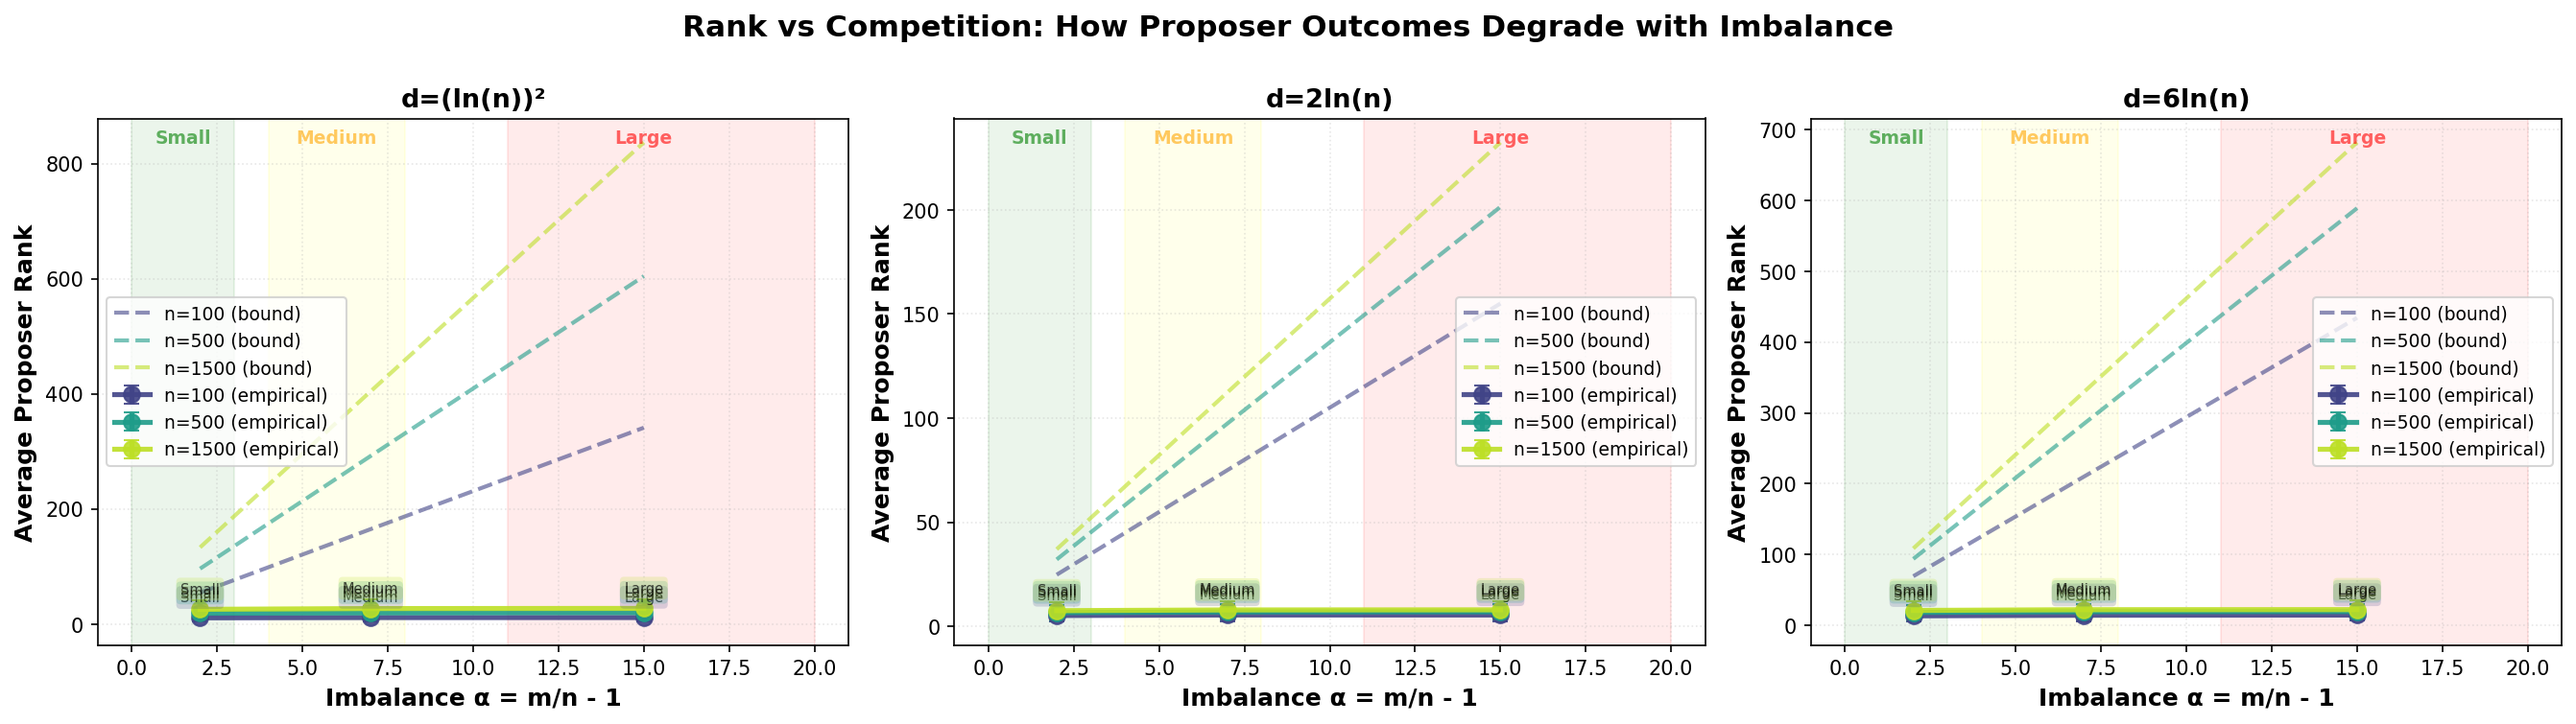
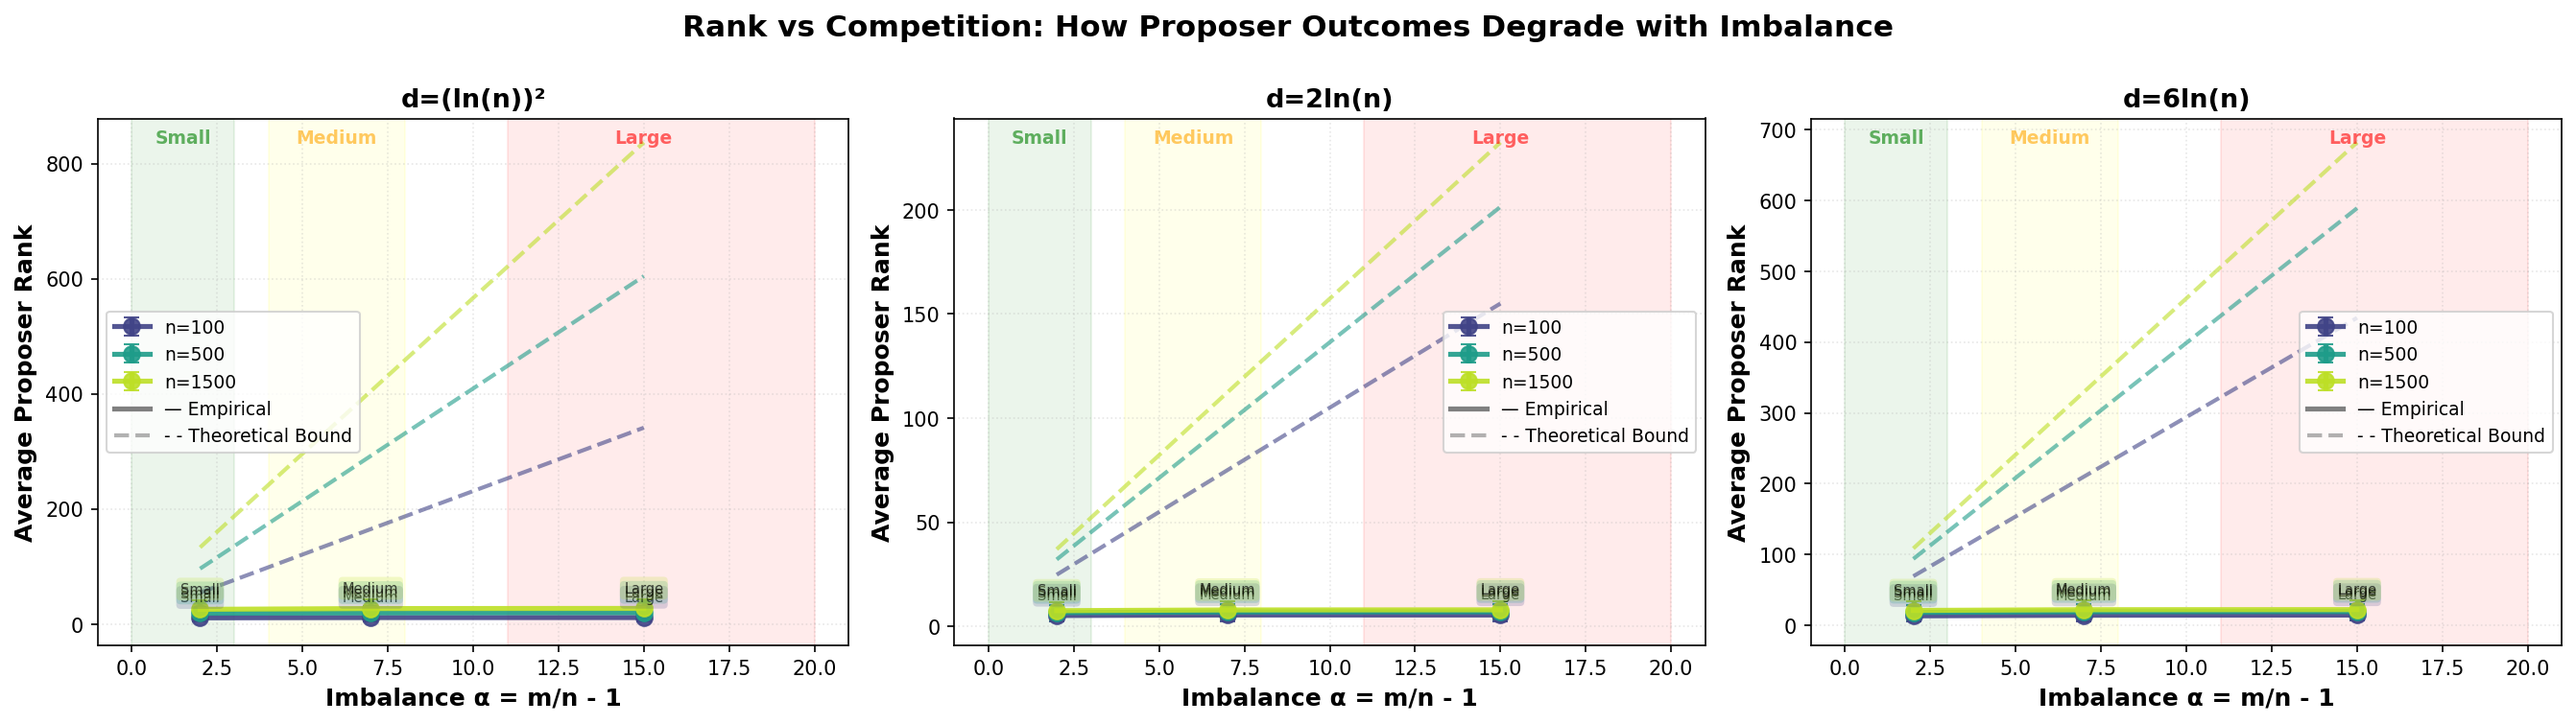
Fix plot 1 legend: clarify empirical vs theoretical bound
Issue: Legend showed 'n=X (empirical)' and 'n=X (bound)' separately
for each n value, making it look like they should overlap when they
actually have a large gap.

Fix:
- Legend now shows 'n=X' only once (for the colored lines)
- Added explicit legend entries: '— Empirical' and '- - Theoretical Bound'
- Makes it crystal clear that solid = empirical, dashed = theory
- Plot 2: Changed 'Optimal (ratio=1)' to 'Ratio=1 (optimal)' for clarity

Now the legend accurately represents what's shown in the plot.

Changed region(s): [[0.0309, 0.396, 0.1546, 0.6397], [0.5566, 0.396, 0.6494, 0.6397], [0.8968, 0.396, 0.9896, 0.6397]]

diff --git a/experiments/plots.py b/experiments/plots.py
@@ -42,17 +42,16 @@ def plot_1_rank_by_imbalance(df):
             if n_data.empty:
                 continue
             
-            # Plot empirical rank with error bars
+            # Plot empirical rank with error bars (solid line)
             axes[idx].errorbar(n_data['alpha'], n_data['avg_proposer_rank'],
                               yerr=n_data['std_proposer_rank'],
                               marker='o', linewidth=2.5, markersize=8,
-                              label=f'n={n_val} (empirical)', 
-                              color=color, capsize=4, alpha=0.9)
+                              label=f'n={n_val}', 
+                              color=color, capsize=4, alpha=0.9, linestyle='-')
             
-            # Overlay theoretical lower bound (dashed)
+            # Overlay theoretical lower bound (dashed, no label since we'll add legend separately)
             axes[idx].plot(n_data['alpha'], n_data['lb_rank'],
-                          linestyle='--', linewidth=2, color=color, alpha=0.6,
-                          label=f'n={n_val} (bound)')
+                          linestyle='--', linewidth=2, color=color, alpha=0.6)
             
             # Add regime labels to data points
             for _, row in n_data.iterrows():
@@ -64,10 +63,22 @@ def plot_1_rank_by_imbalance(df):
                                   bbox=dict(boxstyle='round,pad=0.3', 
                                           facecolor=color, alpha=0.2, edgecolor='none'))
         
+        # Add custom legend entries for line styles
+        from matplotlib.lines import Line2D
+        legend_elements = axes[idx].get_legend_handles_labels()[0]
+        legend_labels = axes[idx].get_legend_handles_labels()[1]
+        
+        # Add explanation for line styles
+        legend_elements.extend([
+            Line2D([0], [0], color='gray', linewidth=2.5, linestyle='-', label='Empirical'),
+            Line2D([0], [0], color='gray', linewidth=2, linestyle='--', alpha=0.6, label='Theoretical Bound')
+        ])
+        legend_labels.extend(['— Empirical', '- - Theoretical Bound'])
+        
         axes[idx].set_xlabel('Imbalance α = m/n - 1', fontsize=12, fontweight='bold')
         axes[idx].set_ylabel('Average Proposer Rank', fontsize=12, fontweight='bold')
         axes[idx].set_title(f'{d_policy}', fontsize=13, fontweight='bold')
-        axes[idx].legend(fontsize=9, loc='best')
+        axes[idx].legend(legend_elements, legend_labels, fontsize=9, loc='best')
         axes[idx].grid(alpha=0.3, linestyle=':')
         
         # Add regime shading with labels
@@ -128,12 +139,12 @@ def plot_2_gap_visualization(df):
         
         # Add horizontal line at ratio=1 (optimal)
         axes[idx].axhline(1.0, color='red', linestyle='--', linewidth=2, 
-                         alpha=0.7, label='Optimal (ratio=1)')
+                         alpha=0.7, label='Ratio=1 (optimal)')
         
         axes[idx].set_xlabel('Imbalance α = m/n - 1', fontsize=12, fontweight='bold')
         axes[idx].set_ylabel('Approximation Ratio (Empirical / Bound)', fontsize=12, fontweight='bold')
         axes[idx].set_title(f'{d_policy}', fontsize=13, fontweight='bold')
-        axes[idx].legend(fontsize=9, loc='best')
+        axes[idx].legend(fontsize=9, loc='upper right')
         axes[idx].grid(alpha=0.3, linestyle=':')
         axes[idx].set_ylim([0, max(df['ratio'].max() * 1.1, 0.3)])
         
